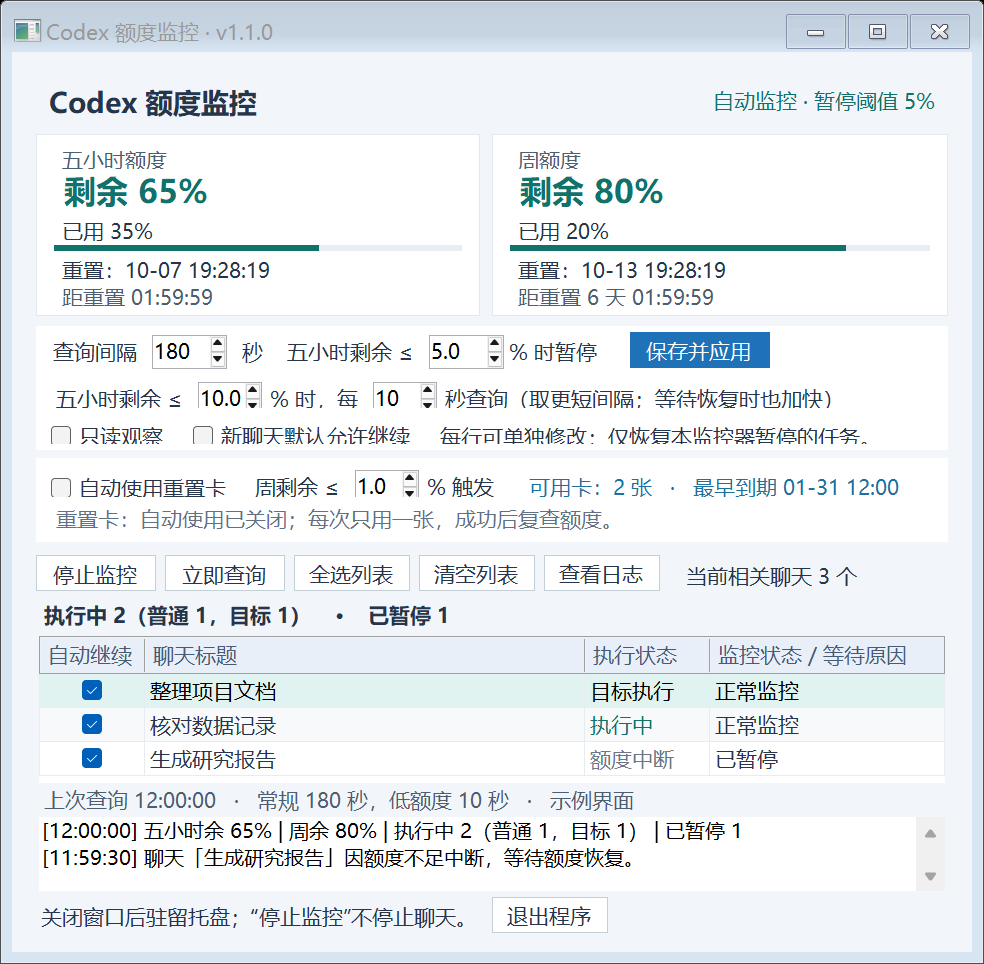
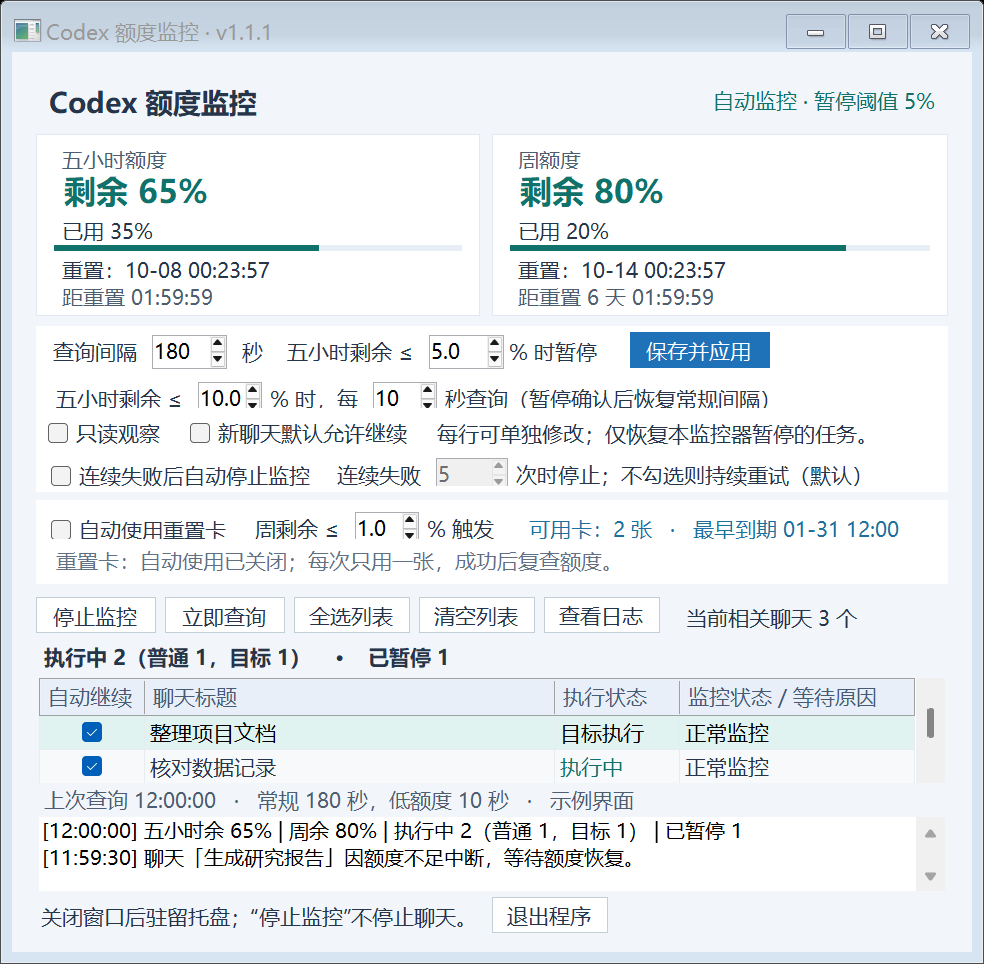
Make retry limit optional and restore normal polling after confirmed pause

diff --git a/src/QuotaMonitor.cs b/src/QuotaMonitor.cs
@@ -23,6 +23,7 @@ public class MonitorSettings {
     public double resetWeeklyRemainingPercent = 1;
     public double nearLimitRemainingPercent = 10;
     public int nearLimitPollSeconds = 10;
+    public int maxConsecutiveFailures = 0;
     public string stateDirectory;
 }
 
@@ -100,6 +101,8 @@ class MonitorWindow : Form {
     readonly Label mode=new Label(), freshness=new Label(), counts=new Label(), cardInfo=new Label(), resetStatus=new Label(), listTitle=new Label();
     readonly NumericUpDown poll=new NumericUpDown(), threshold=new NumericUpDown(), resetThreshold=new NumericUpDown(), nearThreshold=new NumericUpDown(), nearPoll=new NumericUpDown();
     readonly CheckBox observe=new CheckBox(), resumeAll=new CheckBox(), autoReset=new CheckBox();
+    readonly CheckBox stopOnFailures=new CheckBox();
+    readonly NumericUpDown failureLimit=new NumericUpDown();
     readonly DataGridView chats=new DataGridView();
     readonly TextBox log=new TextBox();
     readonly Button start=new Button(), apply=new Button(), refresh=new Button();
@@ -132,7 +135,7 @@ class MonitorWindow : Form {
         if(config.resumeExcludedThreadIds==null) config.resumeExcludedThreadIds=new string[0];
         if (smokeTest) config.observeOnly=true;
         initialConfig=json.Deserialize<MonitorSettings>(json.Serialize(config));
-        Text="Codex 额度监控 · v1.1.0"; Icon=SystemIcons.Application;
+        Text="Codex 额度监控 · v1.1.1"; Icon=SystemIcons.Application;
         ClientSize=new Size(1120,970); MinimumSize=new Size(984,924); StartPosition=FormStartPosition.CenterScreen;
         Font=new Font("Microsoft YaHei UI",9); ForeColor=Color.FromArgb(38,53,73); BackColor=Color.FromArgb(242,246,251); AutoScaleMode=AutoScaleMode.Dpi;
         BuildWindow();
@@ -140,6 +143,7 @@ class MonitorWindow : Form {
         observe.Checked=config.observeOnly; resumeAll.Checked=config.resumeAll;
         autoReset.Checked=config.autoResetEnabled; resetThreshold.Value=(decimal)Math.Max(0,Math.Min(99,config.resetWeeklyRemainingPercent));
         nearThreshold.Value=(decimal)Math.Max(0,Math.Min(100,config.nearLimitRemainingPercent));nearPoll.Value=Math.Max(1,Math.Min(3600,config.nearLimitPollSeconds));
+        stopOnFailures.Checked=config.maxConsecutiveFailures>0;failureLimit.Value=Math.Max(1,Math.Min(9999,config.maxConsecutiveFailures>0 ? config.maxConsecutiveFailures : 5));failureLimit.Enabled=stopOnFailures.Checked;
         loading=false;
         WriteSettings();
         var trayMenu=new ContextMenuStrip();
@@ -182,7 +186,7 @@ class MonitorWindow : Form {
     Label Inline(string text) { return new Label {Text=text,AutoSize=true,Margin=new Padding(0,9,8,0)}; }
     void BuildWindow() {
         var root=new TableLayoutPanel {Dock=DockStyle.Fill,Padding=new Padding(24,16,24,12),ColumnCount=1,RowCount=10};
-        foreach(int h in new int[]{66,192,132,94,46,35}) root.RowStyles.Add(new RowStyle(SizeType.Absolute,h));
+        foreach(int h in new int[]{66,192,174,94,46,35}) root.RowStyles.Add(new RowStyle(SizeType.Absolute,h));
         root.RowStyles.Add(new RowStyle(SizeType.Percent,100)); root.RowStyles.Add(new RowStyle(SizeType.Absolute,28));
         root.RowStyles.Add(new RowStyle(SizeType.Absolute,80)); root.RowStyles.Add(new RowStyle(SizeType.Absolute,46));
         var heading=new TableLayoutPanel {Dock=DockStyle.Fill,ColumnCount=2};
@@ -193,8 +197,9 @@ class MonitorWindow : Form {
         var cards=new TableLayoutPanel {Dock=DockStyle.Fill,ColumnCount=2,Margin=new Padding(0,0,0,10)};
         cards.ColumnStyles.Add(new ColumnStyle(SizeType.Percent,50)); cards.ColumnStyles.Add(new ColumnStyle(SizeType.Percent,50)); week.Margin=new Padding(0);
         cards.Controls.Add(five,0,0); cards.Controls.Add(week,1,0); root.Controls.Add(cards,0,1);
-        var settings=new TableLayoutPanel {Dock=DockStyle.Fill,BackColor=Color.White,Padding=new Padding(12,3,10,3),ColumnCount=1,RowCount=3,Margin=new Padding(0,0,0,8)};
-        settings.RowStyles.Add(new RowStyle(SizeType.Absolute,44));settings.RowStyles.Add(new RowStyle(SizeType.Absolute,38));settings.RowStyles.Add(new RowStyle(SizeType.Absolute,34));
+        var settings=new TableLayoutPanel {Dock=DockStyle.Fill,BackColor=Color.White,Padding=new Padding(12,3,10,3),ColumnCount=1,RowCount=4,Margin=new Padding(0,0,0,8)};
+        settings.RowStyles.Add(new RowStyle(SizeType.Absolute,44));settings.RowStyles.Add(new RowStyle(SizeType.Absolute,38));settings.RowStyles.Add(new RowStyle(SizeType.Absolute,38));
+        settings.RowStyles.Add(new RowStyle(SizeType.Absolute,38));
         var first=new FlowLayoutPanel {Dock=DockStyle.Fill,WrapContents=false,Margin=new Padding(0)};
         poll.Minimum=1; poll.Maximum=3600; poll.Width=75; poll.Margin=new Padding(0,6,10,0);
         threshold.Minimum=0; threshold.Maximum=99; threshold.DecimalPlaces=1; threshold.Width=75; threshold.Margin=new Padding(0,6,0,0);
@@ -202,7 +207,7 @@ class MonitorWindow : Form {
         apply.Text="保存并应用"; apply.AutoSize=false;apply.Size=new Size(140,36);apply.Margin=new Padding(18,3,5,0);apply.Click+=delegate { SaveAndApply(); };
         observe.Text="只读观察"; observe.AutoSize=true; observe.Margin=new Padding(15,9,0,0); observe.CheckedChanged+=delegate { if(!loading) SaveAndApply(); };
         first.Controls.Add(apply);
-        var second=new FlowLayoutPanel {Dock=DockStyle.Fill,WrapContents=false};
+        var second=new FlowLayoutPanel {Dock=DockStyle.Fill,WrapContents=false,Margin=new Padding(0)};
         resumeAll.Text="新聊天默认允许继续"; resumeAll.AutoSize=true; resumeAll.Margin=new Padding(0,7,15,0);
         resumeAll.CheckedChanged+=delegate { if(!loading){
             // Keep explicit choices for known chats when changing the default for new chats.
@@ -218,8 +223,14 @@ class MonitorWindow : Form {
         var near=new FlowLayoutPanel {Dock=DockStyle.Fill,WrapContents=false};
         nearThreshold.Minimum=0;nearThreshold.Maximum=100;nearThreshold.DecimalPlaces=1;nearThreshold.Width=64;nearThreshold.Margin=new Padding(0,6,3,0);
         nearPoll.Minimum=1;nearPoll.Maximum=3600;nearPoll.Width=64;nearPoll.Margin=new Padding(0,6,3,0);
-        near.Controls.Add(Inline("五小时剩余 ≤"));near.Controls.Add(nearThreshold);near.Controls.Add(Inline("% 时，每"));near.Controls.Add(nearPoll);near.Controls.Add(Inline("秒查询（取更短间隔；等待恢复时也加快）"));
+        near.Controls.Add(Inline("五小时剩余 ≤"));near.Controls.Add(nearThreshold);near.Controls.Add(Inline("% 时，每"));near.Controls.Add(nearPoll);near.Controls.Add(Inline("秒查询（暂停确认后恢复常规间隔）"));
+        var failures=new FlowLayoutPanel {Dock=DockStyle.Fill,WrapContents=false};
+        stopOnFailures.Text="连续失败后自动停止监控";stopOnFailures.AutoSize=true;stopOnFailures.Margin=new Padding(0,9,12,0);
+        failureLimit.Minimum=1;failureLimit.Maximum=9999;failureLimit.Width=72;failureLimit.Margin=new Padding(0,6,3,0);
+        stopOnFailures.CheckedChanged+=delegate {failureLimit.Enabled=stopOnFailures.Checked;if(!loading) SaveAndApply();};
+        failures.Controls.Add(stopOnFailures);failures.Controls.Add(Inline("连续失败"));failures.Controls.Add(failureLimit);failures.Controls.Add(Inline("次时停止；不勾选则持续重试（默认）"));
         settings.Controls.Add(first,0,0);settings.Controls.Add(near,0,1);settings.Controls.Add(second,0,2);root.Controls.Add(settings,0,2);
+        settings.Controls.Add(failures,0,3);
         var resets=new TableLayoutPanel {Dock=DockStyle.Fill,BackColor=Color.White,Padding=new Padding(12,3,10,3),RowCount=2,ColumnCount=1,Margin=new Padding(0,0,0,10)};
         resets.RowStyles.Add(new RowStyle(SizeType.Absolute,39));resets.RowStyles.Add(new RowStyle(SizeType.Absolute,32));
         var resetFirst=new FlowLayoutPanel {Dock=DockStyle.Fill,WrapContents=false};
@@ -272,6 +283,7 @@ class MonitorWindow : Form {
         config.observeOnly=observe.Checked; config.resumeAll=resumeAll.Checked;
         config.autoResetEnabled=autoReset.Checked;config.resetWeeklyRemainingPercent=(double)resetThreshold.Value;
         config.nearLimitRemainingPercent=(double)nearThreshold.Value;config.nearLimitPollSeconds=(int)nearPoll.Value;
+        config.maxConsecutiveFailures=stopOnFailures.Checked ? (int)failureLimit.Value : 0;
         AtomicJson(settingsPath,config);
     }
     void SaveAndApply() {
@@ -395,7 +407,7 @@ class MonitorWindow : Form {
                     freshness.Text="上次查询 "+checkedTime.ToLocalTime().ToString("HH:mm:ss")+"   ·   "+(age>delay+20 ? "数据已过期，正在等待客户端" : "距下次查询约 "+Math.Max(0,delay-(int)age)+" 秒")+"   ·   客户端 "+Str(Get(data,"appVersion"));
                     freshness.ForeColor=age>delay+20 ? Color.FromArgb(185,61,41) : Color.FromArgb(77,94,112);
                 }
-                if(WorkerRunning() && !stopRequested) mode.Text=Str(Get(data,"phase"))=="needs_attention" ? "需要排查，请看下方日志" : (config.observeOnly ? "只读观察 · 不操作聊天" : "自动监控 · 阈值 "+config.pauseRemainingPercent.ToString("0.#")+"%");
+                if(WorkerRunning() && !stopRequested) mode.Text=Str(Get(data,"phase"))=="needs_attention" ? "需要排查，请看下方日志" : (Convert.ToInt32(Get(data,"readFailureCount"))>0 ? "查询连续失败 "+Str(Get(data,"readFailureCount"))+" 次，正在重试" : (config.observeOnly ? "只读观察 · 不操作聊天" : "自动监控 · 阈值 "+config.pauseRemainingPercent.ToString("0.#")+"%"));
             }
         } catch(IOException) { } catch(Exception e) { mode.Text="状态读取失败："+e.Message; }
         five.Tick(); week.Tick();
@@ -437,7 +449,7 @@ class MonitorWindow : Form {
         using(var bitmap=new Bitmap(Width,Height)) { DrawToBitmap(bitmap,new Rectangle(Point.Empty,Size)); bitmap.Save(Path.Combine(checkDir,"window-small.png")); }
         try {CheckChoicesAndPreview();}catch(Exception e){SaveCheck(false,"界面交互检查失败："+e.Message);RequestExit();return;}
         passed=passed && choicesPassed && quotaDisplayPassed;
-        SaveCheck(passed,"实时额度、两个重置时间、查询间隔、阈值、单聊天选择和只读设置"); RequestExit();
+        SaveCheck(passed,"实时额度、重置时间、查询间隔、失败次数开关及持久化、单聊天选择和只读设置"); RequestExit();
     }
     void CheckChoicesAndPreview(){
         var savedState=lastState;var savedConfig=json.Serialize(config);bool savedDefault=resumeAll.Checked;
@@ -460,6 +472,10 @@ class MonitorWindow : Form {
             var persisted=json.Deserialize<MonitorSettings>(ReadShared(settingsPath));
             if(!persisted.resumeThreadIds.Contains("demo-goal") || persisted.resumeExcludedThreadIds.Contains("demo-goal"))throw new Exception("逐项选择没有保存");
             choicesPassed=true;
+            failureLimit.Value=7;stopOnFailures.Checked=true;SaveAndApply();
+            if(json.Deserialize<MonitorSettings>(ReadShared(settingsPath)).maxConsecutiveFailures!=7 || !failureLimit.Enabled)throw new Exception("失败次数设置没有保存");
+            stopOnFailures.Checked=false;SaveAndApply();
+            if(json.Deserialize<MonitorSettings>(ReadShared(settingsPath)).maxConsecutiveFailures!=0 || failureLimit.Enabled)throw new Exception("无法关闭连续失败自动停止");
             long resetAt=(long)(DateTime.UtcNow.AddHours(2)-new DateTime(1970,1,1)).TotalSeconds;
             five.UpdateQuota(65,resetAt);if(five.Value.Text!="剩余 65%")throw new Exception("额度 65% 未显示");
             five.UpdateQuota(7,resetAt);if(five.Value.Text!="剩余 7%" || five.Bar.Value!=7 || five.Detail.Text!="已用 93%")throw new Exception("额度变化未刷新");
@@ -468,7 +484,7 @@ class MonitorWindow : Form {
             five.UpdateQuota(65,resetAt);week.UpdateQuota(80,resetAt+6*86400);
             ClientSize=new Size(1120,970);PerformLayout();
             counts.Text="执行中 2（普通 1，目标 1）    ·    已暂停 1";mode.Text="自动监控 · 暂停阈值 5%";
-            loading=true;observe.Checked=false;autoReset.Checked=false;poll.Value=180;threshold.Value=5;nearThreshold.Value=10;nearPoll.Value=10;resetThreshold.Value=1;loading=false;
+            loading=true;observe.Checked=false;autoReset.Checked=false;poll.Value=180;threshold.Value=5;nearThreshold.Value=10;nearPoll.Value=10;resetThreshold.Value=1;failureLimit.Value=5;loading=false;
             cardInfo.Text="可用卡：2 张   ·   最早到期 01-31 12:00";resetStatus.Text="重置卡：自动使用已关闭；每次只用一张，成功后复查额度。";
             freshness.Text="上次查询 12:00:00   ·   常规 180 秒，低额度 10 秒   ·   示例界面";
             log.Text="[12:00:00] 五小时余 65% | 周余 80% | 执行中 2（普通 1，目标 1） | 已暂停 1\r\n[11:59:30] 聊天「生成研究报告」因额度不足中断，等待额度恢复。";
@@ -478,6 +494,7 @@ class MonitorWindow : Form {
         }finally {
             loading=true;lastState=savedState;config=json.Deserialize<MonitorSettings>(savedConfig);resumeAll.Checked=savedDefault;
             observe.Checked=config.observeOnly;autoReset.Checked=config.autoResetEnabled;poll.Value=config.pollSeconds;threshold.Value=(decimal)config.pauseRemainingPercent;nearThreshold.Value=(decimal)config.nearLimitRemainingPercent;nearPoll.Value=config.nearLimitPollSeconds;resetThreshold.Value=(decimal)config.resetWeeklyRemainingPercent;
+            stopOnFailures.Checked=config.maxConsecutiveFailures>0;failureLimit.Value=config.maxConsecutiveFailures>0 ? config.maxConsecutiveFailures : 5;failureLimit.Enabled=stopOnFailures.Checked;
             loading=false;WriteSettings();
         }
     }

diff --git a/src/AssemblyInfo.cs b/src/AssemblyInfo.cs
@@ -2,6 +2,6 @@ using System.Reflection;
 [assembly: AssemblyTitle("Codex Quota Monitor")]
 [assembly: AssemblyDescription("Windows Codex quota monitor with pause, recovery and earned-reset controls")]
 [assembly: AssemblyProduct("Codex Quota Monitor")]
-[assembly: AssemblyVersion("1.1.0.0")]
-[assembly: AssemblyFileVersion("1.1.0.0")]
+[assembly: AssemblyVersion("1.1.1.0")]
+[assembly: AssemblyFileVersion("1.1.1.0")]
 

diff --git a/docs/使用说明.md b/docs/使用说明.md
@@ -6,12 +6,20 @@
 
 - 常规间隔：1–3600 秒。
 - 低额度触发：五小时剩余 ≤设定值时，改为低额度间隔；实际取常规和低额度间隔中更短的一个。
-- 默认常规 30 秒，剩余 ≤10% 时 10 秒；暂停或继续确认期间也使用较短间隔。
+- 默认常规 30 秒，剩余 ≤10% 时 10 秒；等待暂停或继续结果确认期间也使用较短间隔。暂停已确认且没有其他仍在监控中的任务时，恢复常规间隔，即使额度仍低也不加速；按常规间隔检查额度恢复。
 - 默认五小时剩余 ≤5% 暂停。账号不允许使用或周额度耗尽时也暂停。
 - 修改数字后点“保存并应用”；开关和聊天勾选自动保存。
 - 每轮查询会重新创建独立 app-server 读取进程，防止长时间复用返回旧缓存。查询结束后开始计算等待时间，查询本身还需客户端响应；额度卡片按真实查询更新，倒计时每秒刷新。
 
 “五小时额度耗尽”“周额度耗尽”“账号消费上限已触发”和服务暂不允许使用分开显示。额度为 0% 不再写成“账号不可用”。未知的额度字段显示“未提供”，不当作 0%。
+
+## 连续失败处理
+
+默认不勾选“连续失败后自动停止监控”，普通连接或读取失败会持续重试，不再固定五次就停止；升级旧设置也采用这个默认值。失败后按常规查询间隔重试，日志和窗口显示当前连续失败次数，成功查询后计数归零。
+
+需要自动停止时，勾选该项，填写 1–9999 次，再点“保存并应用”。达到次数后停止监控，可排查后点“启动监控”；不停止聊天、不清除已暂停记录。单个聊天连续操作失败使用同一上限，只停止该聊天的自动处理。取消勾选立即保存为持续重试。
+
+持续重试针对暂时的连接/读取错误；原任务身份校验、未知通信协议、暂停/继续结果未确认等保护仍有效，不重复提交结果未知的继续请求。
 
 ## 聊天列表与自动继续
 

diff --git a/docs/验证说明.md b/docs/验证说明.md
@@ -1,4 +1,16 @@
-# v1.1.0 验证说明
+# 验证说明
+
+## v1.1.1
+
+验证日期：2026-10-07。42 项基础判断、53 项功能判断、多聊天协调和并发读写检查通过。
+
+- 已确认暂停后，即使五小时额度低于 10% 或已恢复，也使用常规间隔；暂停/继续待确认或仍有监控中任务时保留相应加速。
+- 默认不自动停止：模拟六次连续读取失败仍继续，第七次成功后计数清零。
+- 自定义三次失败上限：第三次失败停止；失败、成功、失败的序列重新累计连续次数。
+- 旧设置缺少失败上限字段时默认为 0（持续重试）；自定义上限加载并写入日志策略，非法负值拒绝。
+- 界面新增失败次数开关和输入框，开启/关闭与持久化采用隔离只读检查，不操作真实聊天或重置卡。
+
+## v1.1.0
 
 验证日期：2026-10-07。现场客户端：26.1002.6548.0，Windows x64。
 
